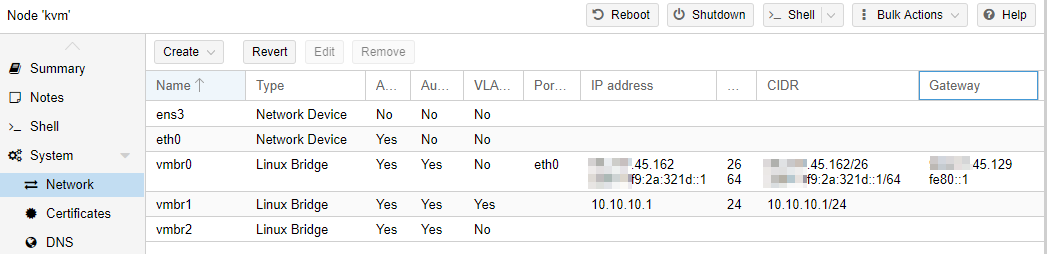
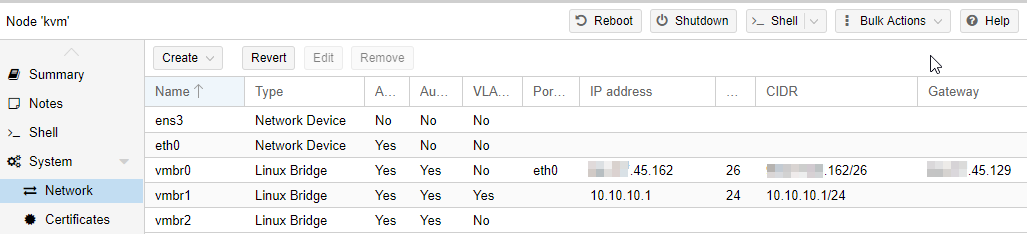
Making routed instead of switched

Changed region(s): [[0.0, 0.0, 1.0, 1.0]]

diff --git a/README.md b/README.md
@@ -6,7 +6,10 @@
   - [Bridges](#bridges)
 - [Firewall (pfSense)](#firewall-pfsense)
   - [Interfaces assignments in pfSense](#interfaces-assignments-in-pfsense)
-  - [pFsense Bridge](#pfsense-bridge)
+    - [IPv4](#ipv4)
+    - [IPv6](#ipv6)
+  - [Routing in pfSense](#routing-in-pfsense)
+  - [MAC assignment for IPv6](#mac-assignment-for-ipv6)
   - [Firewall Rules](#firewall-rules)
 - [VM configuration](#vm-configuration)
   - [Docker configuration](#docker-configuration)
@@ -15,15 +18,24 @@
 ## Objectives 
 * Automatic provisioning of IPv6
    * Each Docker container will receive an IPv6 automatically.
+* Routed IPv6 traffic between container in different Hosts
+   * Each host will have a /80 that will be routed trough pfSense 
 * Secured public access to our containers via IPv6.
    * They will be reachable publicly so we want to be able to whitelist open ports in a secure way.
 * Out of band Firewall
    * Having an out of band firewall, meaning outside of the VM, will increase the security of the system
+   * 
 ## Requirements
 ### IPv6 network
 For this article, we will use a /64 IPv6 network because its what our Hosting provider (Hetzner) gives us.
-
-This will be divided in /80 subnets, one for each VM containing Docker containers for a total of 65536.
+This will be divided in 4096 /76s:
+* z: x:y:321d:10::1/76 WAN in Pfsense
+* z: x:y:321d:20::1/76 VIP gateway for VM1
+  * z: x:y:321d:20:**1**::1/80 for Docker containers in VM1
+* z: x:y:321d::30:1/76 VIP gateway for VM2
+  * z: x:y:321d:30:**1**::1/80 for Docker containers in VM1
+* z: x:y:321d:3e80::1/76 VMx
+  * z: x:y:321d:30:**1**::1/80 for Docker containers in VMx
 
 ## Hypervisor
 We will need a way to provision VMs, for this article we selected Proxmox
@@ -36,14 +48,14 @@ More information:
 
 ### Bridges
 We will create 3 bridges:
-* **vmbr0**: It will connect to the internet and receive both IPv4 and IPv6 traffic.
+* **vmbr0**: It will connect to the internet and receive both IPv4 and IPv6 traffic but will only have the main IPv4 assigned xxx.yyy.145.162/26
 * **vmbr1**: The internal network shared between VMs, 10.x.x.x
-* **vmbr2**: This bridge will hold the IPv6 network for our VMs
+* **vmbr2**: This bridge will hold the IPv6 network for our VMs, in this case a /64
 
 ![Bridges](images/bridges.png)
 ## Firewall (pfSense)
 We will need an out of band Firewall to be able to whitelist open ports and for this, we are going to use pfSense.
-
+ 
 More information here: https://docs.netgate.com/pfsense/en/latest/virtualization/virtualizing-pfsense-with-proxmox.html
 
 We will add 3 network cards and configure each one to one of the Bridges we created before
@@ -51,28 +63,40 @@ We will add 3 network cards and configure each one to one of the Bridges we crea
 ![pfSense](images/pfsense.png)
 
 ### Interfaces assignments in pfSense
-We will configure 3 interfaces and a bridge:
-* **WAN:** The IPv4 that we will use to NAT and port forward to our VMs
-  * xxx.xxx.45.134
-* **LAN:** The Internal network-facing interface and default gateway for IPv4
-  * 10.10.10.2
-* **WAN6:** The default gateway for our IPv6 network
-  * Static IPv6: xxxx:yyyy:ww:321d::2
-  * Default gateway: fe80::1 (required for our hosting provider)
-
 ![pfSense](images/pfsense_interfaces2.png)
+#### IPv4
+* WAN NAT IPv4: xxx.yyy.145.136/26
+* WAN NAT IPv6: z: x:y:w:10::1/76
+* LAN 10.10.10.2
 
-![pfSense](images/pfsense_interfaces.png)
+We have 2 IPv4 assigned , one to access the Host KVM and other to use as NAT and the internal LAN.
+#### IPv6
+Default gateways for the VM hosts.
+* WAN6 z: x:y:w:20::1
+  * VIP z: x:y:w:30::1
+  ...
+  * VIP z: x:y:w:3e80::1
 
-### pFsense Bridge
 
-Out hosting provider requires that our IPv6 traffic comes from the same MAC address associated with our IPv4:
+### Routing in pfSense
+
+The default GW for IPv6 is fe80::1 for the interface IPv6 and the corresponding ::1/80 for the hosts.
+
+Each VM host gets a static route so we define as a gateway the IPv6 of the host, 20::2
+
+![pfSense bridge](images/pfsense_gateways.png)
+
+Then we add a static route saying that our container subnet 21::/80 can be reached the interface WAN6 via the host 20::2.
+
+![pfSense bridge](images/pfsense_static_routes.png)
+
+
+### MAC assignment for IPv6
+
+Our hosting provider requires that our IPv6 traffic comes from the same MAC address associated with one of our IPv4:
 
 ![pfSense bridge](images/hetzner_ipv6.png)
 
-This means we have to bridge our WAN (ipv4) and WAN6 (ipv6) together:
-
-![pfSense bridge](images/pfsense_bridge.png)
 
 ### Firewall Rules
 We need to create the following firewall rules:
@@ -88,25 +112,31 @@ We need to create the following firewall rules:
 In this example we use systemd-networkd but the same idea can be used on any network manager.
 https://wiki.archlinux.org/index.php/Systemd-networkd
 
-Notice we use::3 for our VM IPv6 and no default gateway because this will be configured in the docker0 bridge.
+Notice we use ::2 for our VM IPv6 and WAN6 interface IP as a default route.
 
 ```
 [Match]
 Name=eth1
 
 [Network]
-Address=xxxx:yyyy:ww:321d::3/64
+Address=z:x:y:w:20::2/80
+Gateway=z:x:y:w:20::1
+
+[Route]
+Gateway=z:x:y:w:20::1
+
 ```
 
-This will give us 2 IPv6:
+This will give us:
 
 ```
 # ip -6 addr show dev eth1
 3: eth1: <BROADCAST,MULTICAST,UP,LOWER_UP> mtu 1500 qdisc fq_codel master docker0 state UP group default qlen 1000
-    inet6 xxxx:yyyy:ww:321d::3/64 scope global 
+    inet6 z:x:y:w:20::2/76 scope global 
        valid_lft forever preferred_lft forever
     inet6 fe80::e470:c4ff:fe34:1491/64 scope link 
        valid_lft forever preferred_lft forever
+
 
 ```
 
@@ -122,64 +152,36 @@ PING www.google.com(ams16s29-in-x04.1e100.net (2a00:1450:400e:804::2004)) 56 dat
 ### Docker configuration
 More information: https://docs.docker.com/v17.09/engine/userguide/networking/default_network/ipv6/#routed-network-environment
 
-We configure docker to use our /80 subnets under :0001::/80 and as default gateway WAN6 from pFsense.
+We configure docker to use our /80 subnets under 21::/80.
 
 ```
 # cat /etc/docker/daemon.json 
 {
   "ipv6": true,
-  "fixed-cidr-v6": "xxxx:yyyy:ww:321d:0001::/80",
-  "default-gateway-v6": "xxxx:yyyy:ww:321d:0001::2"
+  "fixed-cidr-v6": "z:x:y:w:21::/80"
 }
 ```
-
-We will also need to create our own bridge, adding eth1 and the containers interfaces:
-https://docs.docker.com/v17.09/engine/userguide/networking/default_network/build-bridges/
-
-```
-# brctl show
-bridge name    bridge id        STP enabled    interfaces
-docker0        8000.024206f98e86    no        eth1
-                            vethb0f16cc
-
-```
-And make sure our default route goes trough docker0 **not** eth1
-
-```
-# ip -6 route
-::1 dev lo proto kernel metric 256 pref medium
-xxxx:yyyy:ww:321d::/80 dev docker0 metric 1024 pref medium
-xxxx:yyyy:ww:321d:1::/80 dev docker0 proto kernel metric 256 pref medium
-xxxx:yyyy:ww:321d:1::/80 dev docker0 metric 1024 pref medium
-xxxx:yyyy:ww:321d::/64 dev eth1 proto kernel metric 256 pref medium
-default via xxxx:yyyy:ww:321d::2 dev docker0 metric 1024 pref medium
 
 ```
 Test it by using an alpine container:
 
-docker run -it alpine ash
-
-```
+# docker run -it alpine ash
 / # ip -6 route
-xxxx:yyyy:ww:321d:1::/80 dev eth0  metric 256 
+z:x:y:w:21::/80 dev eth0  metric 256 
 fe80::/64 dev eth0  metric 256 
-default via xxxx:yyyy:ww:321d:1::2 dev eth0  metric 1024 
+default via 2a01:4f9:2a:321d:21::1 dev eth0  metric 1024 
 ff00::/8 dev eth0  metric 256 
+
 / # ip -6 addr
-13: eth0@if14: <BROADCAST,MULTICAST,UP,LOWER_UP,M-DOWN> mtu 1500 state UP 
-    inet6 xxxx:yyyy:ww:321d:1:242:ac11:2/80 scope global flags 02 
+1: lo: <LOOPBACK,UP,LOWER_UP> mtu 65536 state UNKNOWN qlen 1000
+    inet6 ::1/128 scope host 
+       valid_lft forever preferred_lft forever
+43: eth0@if44: <BROADCAST,MULTICAST,UP,LOWER_UP,M-DOWN> mtu 1500 state UP 
+    inet6 z:x:y:w:21:242:ac11:2/80 scope global flags 02 
        valid_lft forever preferred_lft forever
     inet6 fe80::42:acff:fe11:2/64 scope link 
        valid_lft forever preferred_lft forever
-/ # ip  addr
-13: eth0@if14: <BROADCAST,MULTICAST,UP,LOWER_UP,M-DOWN> mtu 1500 qdisc noqueue state UP 
-    link/ether 02:42:ac:11:00:02 brd ff:ff:ff:ff:ff:ff
-    inet 172.17.0.2/16 brd 172.17.255.255 scope global eth0
-       valid_lft forever preferred_lft forever
-    inet6 xxxx:yyyy:ww:321d:1:242:ac11:2/80 scope global flags 02 
-       valid_lft forever preferred_lft forever
-    inet6 fe80::42:acff:fe11:2/64 scope link 
-       valid_lft forever preferred_lft forever
+
 / # ping -6 www.google.com
 PING www.google.com (2a00:1450:400e:807::2004): 56 data bytes
 64 bytes from 2a00:1450:400e:807::2004: seq=0 ttl=55 time=26.828 ms
@@ -187,5 +189,5 @@ PING www.google.com (2a00:1450:400e:807::2004): 56 data bytes
 
 ```
 
-From here we can see we got IPv4 172.17.0.2/16 and IPv6 xxxx:yyyy:ww:321d:1:242:ac11:2/80 and ping with IPv6 works.
+From here we can see we got IPv4 172.17.0.2/16 and IPv6 z:x:y:w:21:242:ac11:2/80 and ping with IPv6 works.
 
